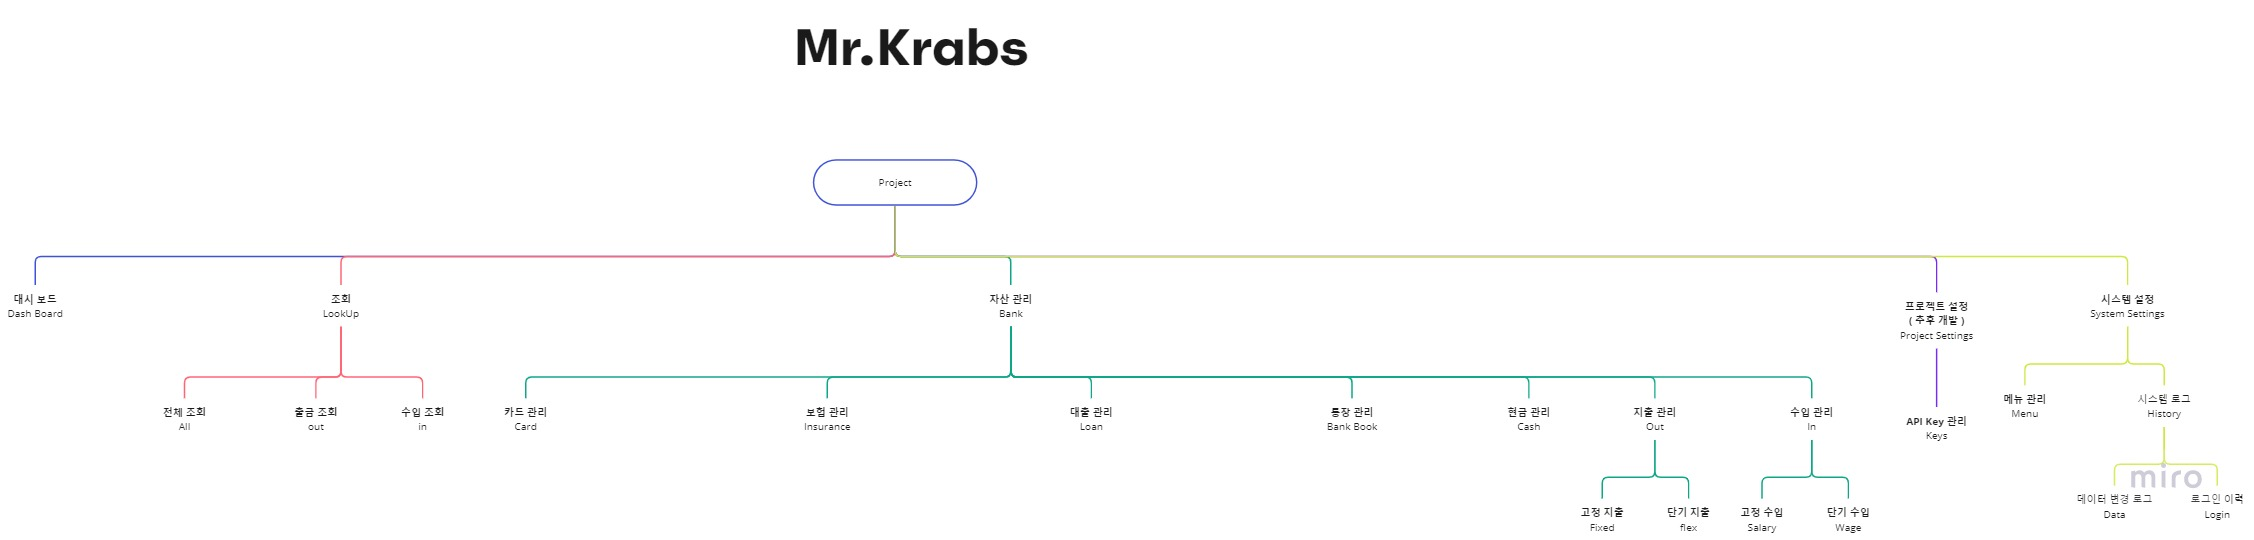
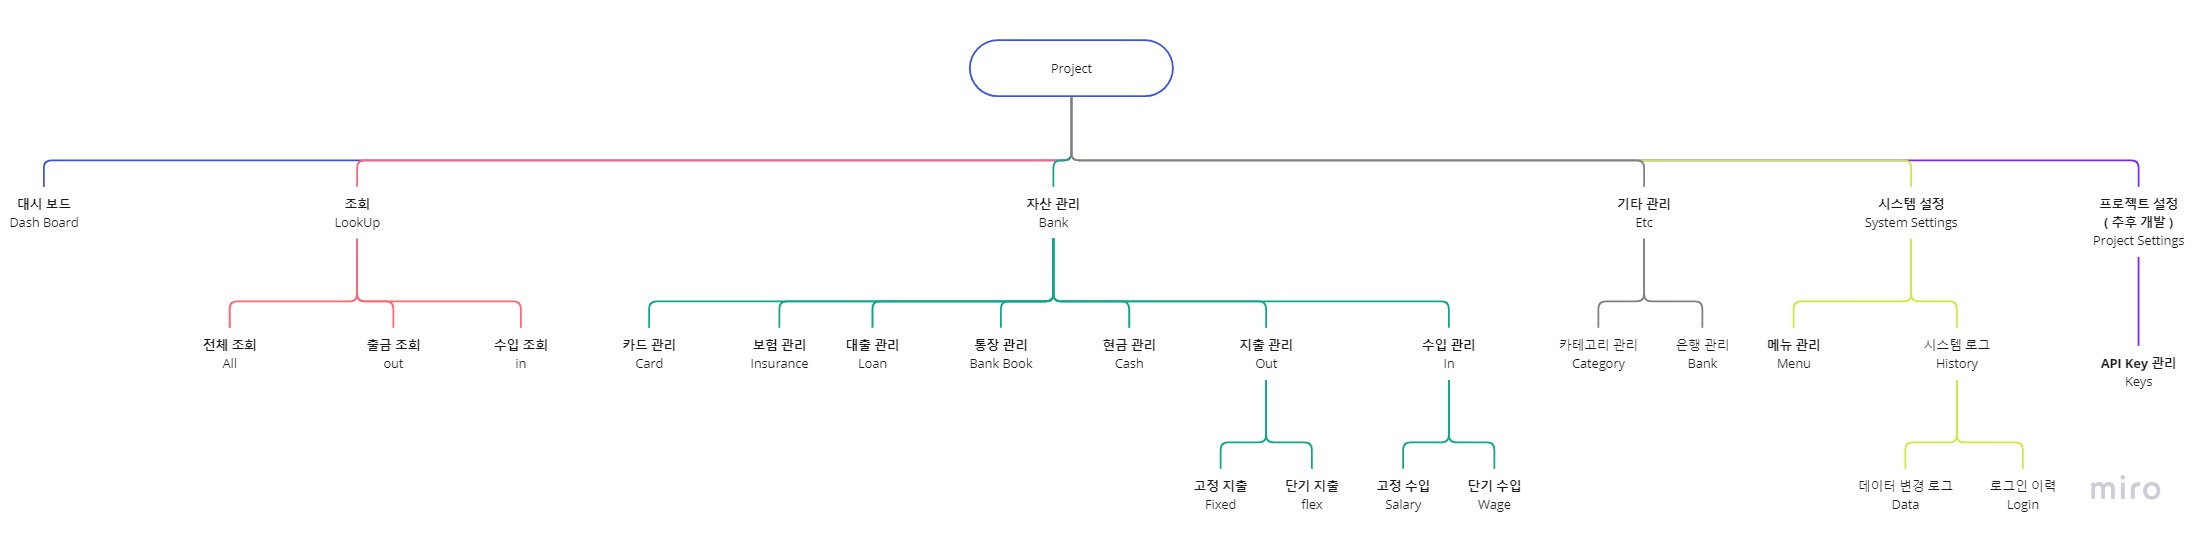
2022-04-07 1. DashBoard.md 작성 2. DashBoardRestController.java 작성 3. DashBoardService.java[Interface] 생성 4. DashBoardServiceImpl.java[Implements Class] 생성 5. MrKrabsProjectConfig.java 삭제

diff --git a/src/main/java/kr/co/mrkrabs/core/domain/dashboard/ctrl/DashBoardRestController.java b/src/main/java/kr/co/mrkrabs/core/domain/dashboard/ctrl/DashBoardRestController.java
@@ -1,0 +1,35 @@
+package kr.co.mrkrabs.core.domain.dashboard.ctrl;
+
+import kr.co.mrkrabs.core.domain.dashboard.service.DashBoardServiceImpl;
+import org.springframework.web.bind.annotation.GetMapping;
+import org.springframework.web.bind.annotation.RequestMapping;
+import org.springframework.web.bind.annotation.RestController;
+
+import javax.servlet.http.HttpServletRequest;
+import java.util.Map;
+
+/**
+ * <pre>
+ *
+ * 설명: 대시보드 로딩시 사용할 REST API Controller
+ *
+ * - 수정 이력 -
+ * --------------------------------------------------------
+ * [ 2022-04-07 applan I ] 최초 작성
+ * --------------------------------------------------------
+ * </pre>
+ * @author applan
+ * @version 1.0
+ */
+@RestController
+@RequestMapping("/dashboard/get")
+public class DashBoardRestController {
+
+    DashBoardServiceImpl dashBoardServiceImpl;
+
+    @GetMapping("/header")
+    public Map<String, Object> getHeaderData(HttpServletRequest request) {
+        return dashBoardServiceImpl.getHeaderData(request);
+    }
+
+}

diff --git a/src/main/java/kr/co/mrkrabs/core/domain/dashboard/service/impl/DashBoardService.java b/src/main/java/kr/co/mrkrabs/core/domain/dashboard/service/impl/DashBoardService.java
@@ -1,0 +1,34 @@
+package kr.co.mrkrabs.core.domain.dashboard.service.impl;
+
+import javax.servlet.http.HttpServletRequest;
+import java.util.Map;
+
+/**
+ * <pre>
+ *
+ * 설명: 대시보드 Service Interface
+ *
+ * - 수정 이력 -
+ * --------------------------------------------------------
+ * [ 2022-04-07 applan I ] 최초 작성
+ * --------------------------------------------------------
+ * </pre>
+ * @author applan
+ * @version 1.0
+ */
+public interface DashBoardService {
+
+    /**
+     * <pre>
+     *  다음 데이터를 반환
+     *     1. 한달 수입
+     *     2. 다음달 결제 금액
+     *     3. 고정 지출 금액
+     *     4. Flex 분류
+     * </pre>
+     * @param request - 반환된 값을 저장하기위한 Request 객체
+     * @return 반환 값을 가지고있는 데이터
+     */
+    Map<String, Object> getHeaderData(HttpServletRequest request);
+
+}

diff --git a/src/main/java/kr/co/mrkrabs/core/domain/dashboard/service/DashBoardServiceImpl.java b/src/main/java/kr/co/mrkrabs/core/domain/dashboard/service/DashBoardServiceImpl.java
@@ -1,0 +1,30 @@
+package kr.co.mrkrabs.core.domain.dashboard.service;
+
+import kr.co.mrkrabs.core.domain.dashboard.service.impl.DashBoardService;
+import org.springframework.stereotype.Service;
+
+import javax.servlet.http.HttpServletRequest;
+import java.util.Map;
+
+/**
+ * <pre>
+ *
+ * 설명: 대시보드 Service Implements
+ *
+ * - 수정 이력 -
+ * --------------------------------------------------------
+ * [ 2022-04-07 applan I ] 최초 작성
+ * --------------------------------------------------------
+ * </pre>
+ * @author applan
+ * @version 1.0
+ */
+@Service
+public class DashBoardServiceImpl implements DashBoardService {
+
+    @Override
+    public Map<String, Object> getHeaderData(HttpServletRequest request){
+        return null;
+    }
+
+}

diff --git a/src/main/java/kr/co/mrkrabs/core/domain/dashboard/DashBoard.md b/src/main/java/kr/co/mrkrabs/core/domain/dashboard/DashBoard.md
@@ -1,0 +1,31 @@
+# 요구 사항
+
+## Header
+
+- 한달 수입 확인
+- 다음달 결제 금액 확인
+  - 신용카드, 버스 등 
+- 고정 지출 금액 확인
+  - 통신료, 보험, 대출 등
+- Flex 분류 (제일 많이 지출한 분류)
+
+## Body
+
+- 지출 내역
+    - 리스트 형식
+    - 은행별 -> 금액별로 정렬
+      - xx 은행
+        - 지출 1
+        - 지출 2
+        - ...
+- 입금 내역
+    - 리스트 형식
+    - 지출 내역과 동일한 형식 사용
+- 통계
+  - 금액 (바 차트)
+    - 바 차트 형태
+    - \[ 시간, 분류 \]로 선택해서 확인할 수 있게함
+  - 분류 ( 도넛 )
+    - 도넛 차트 형태
+    - 분류별로 얼마나 사용했는지 Count 확인
+- 간단한 메모

diff --git a/README.md b/README.md
@@ -46,6 +46,9 @@
             - in
               - salary
               - wage
+          - etc [기타 관리]
+            - bank
+            - category
           - system settings [시스템 설정]
             - menu
             - history
